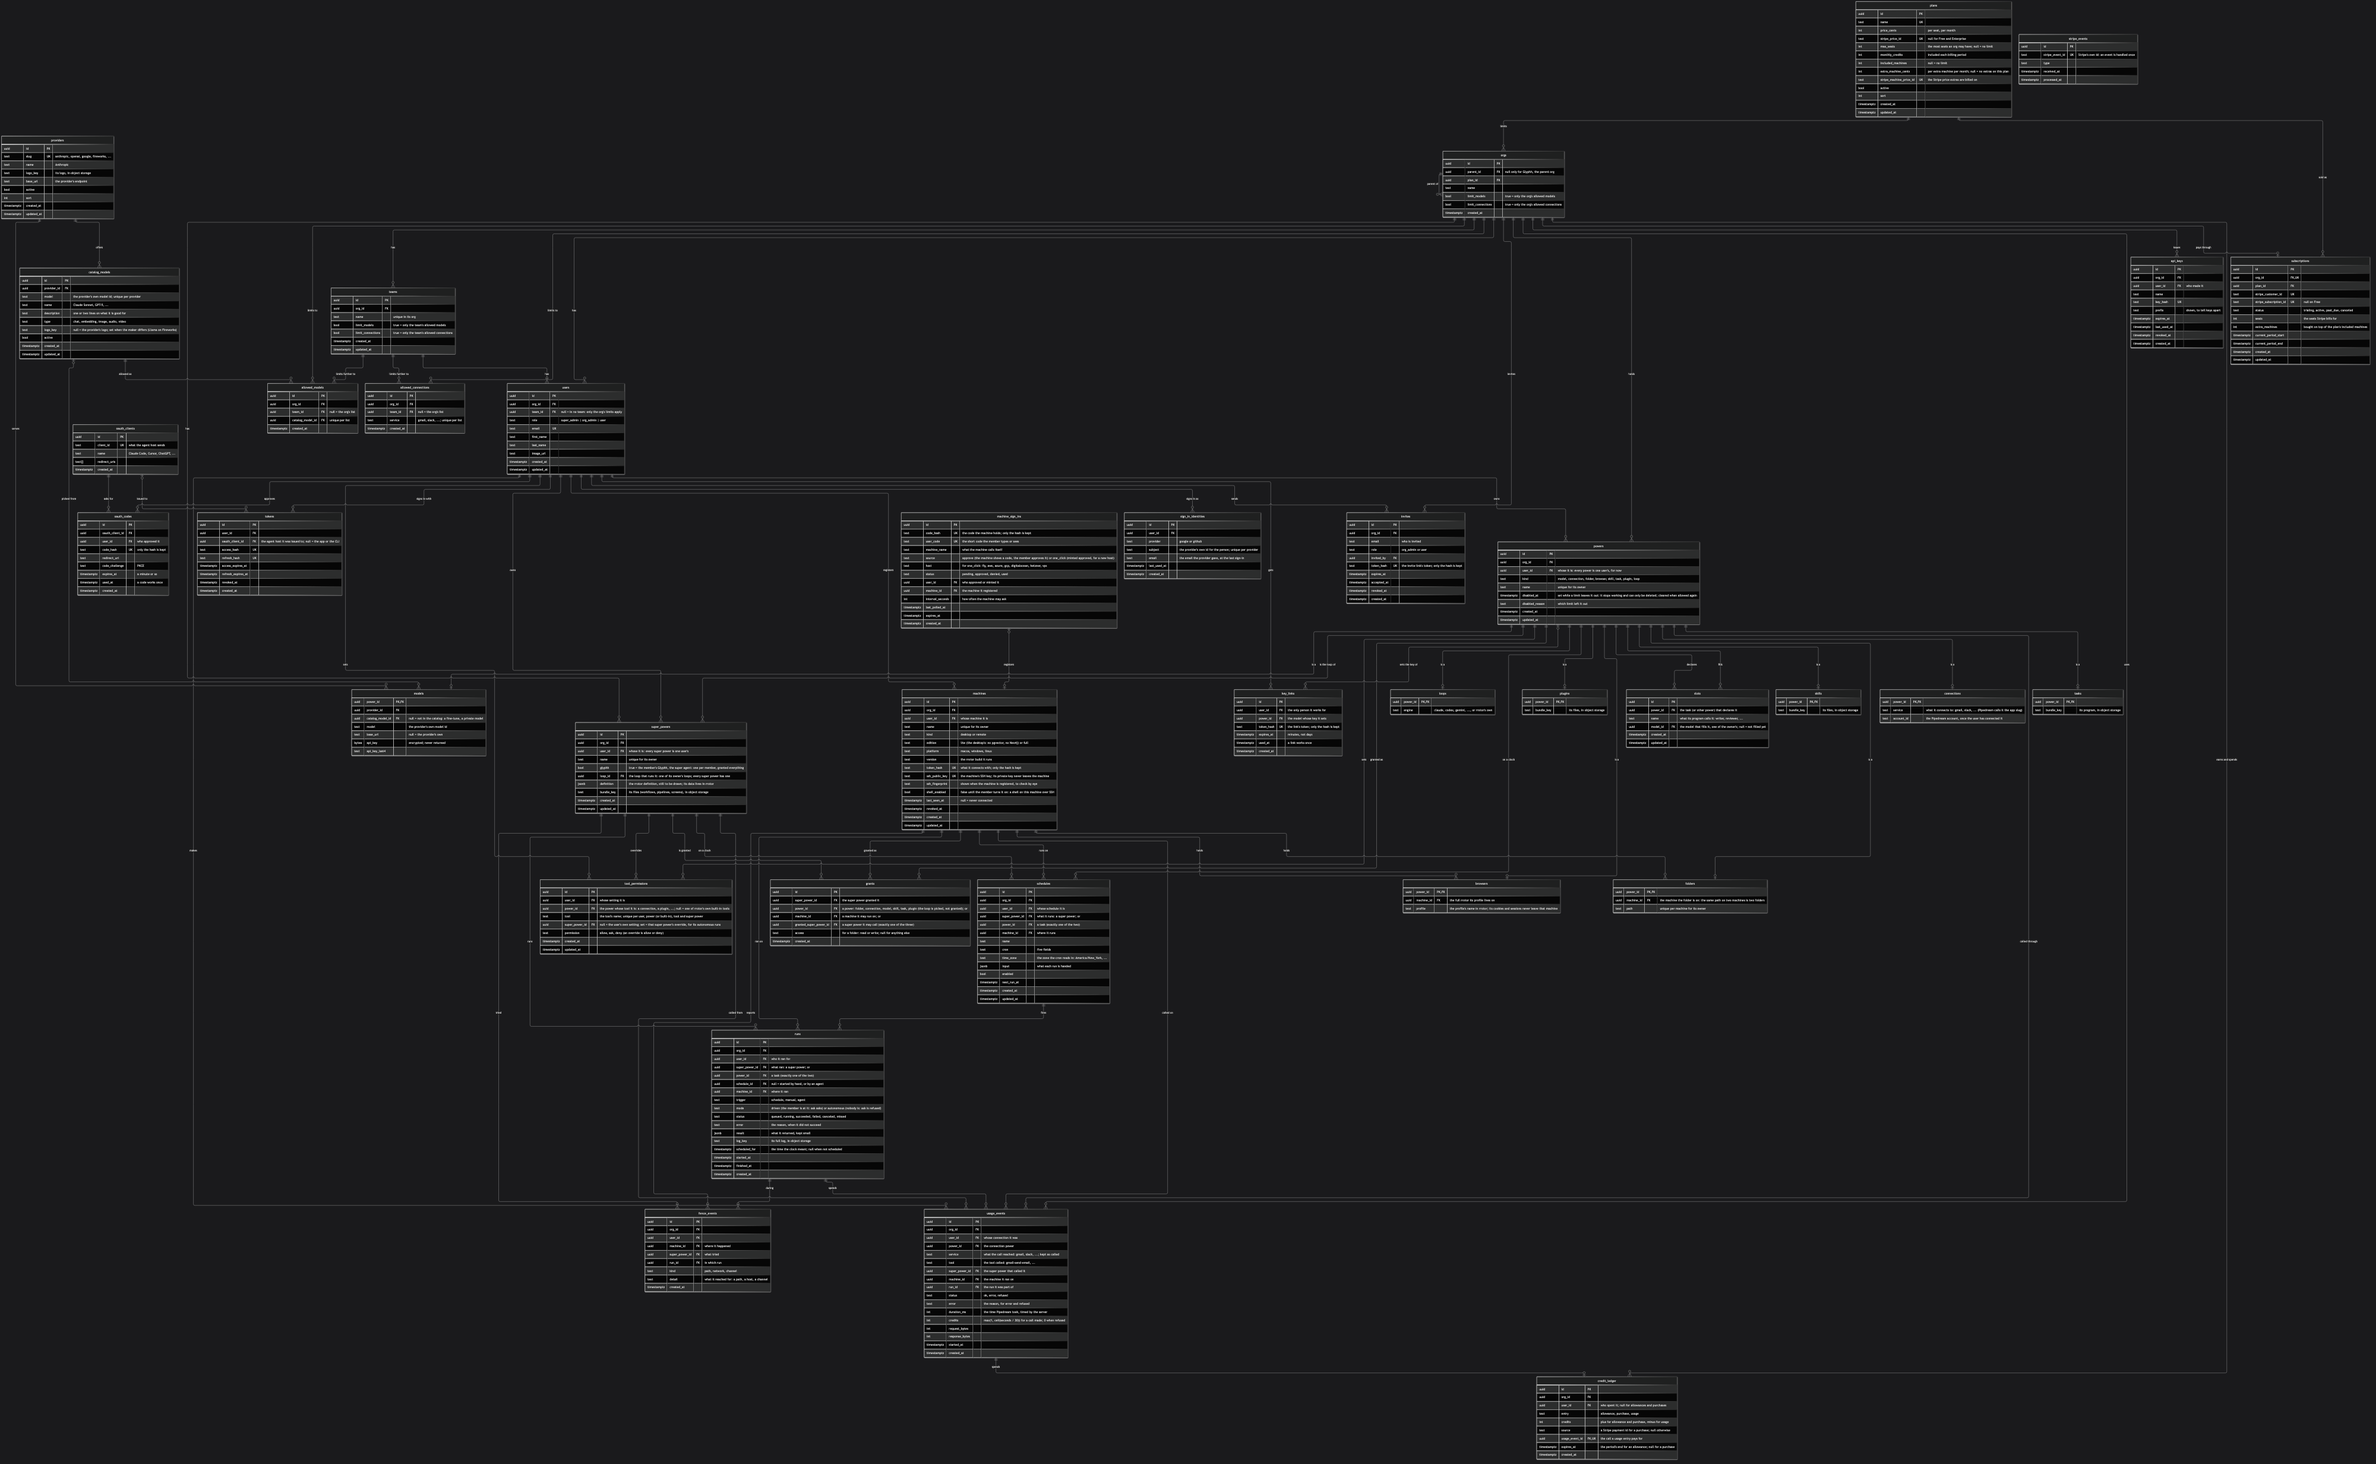
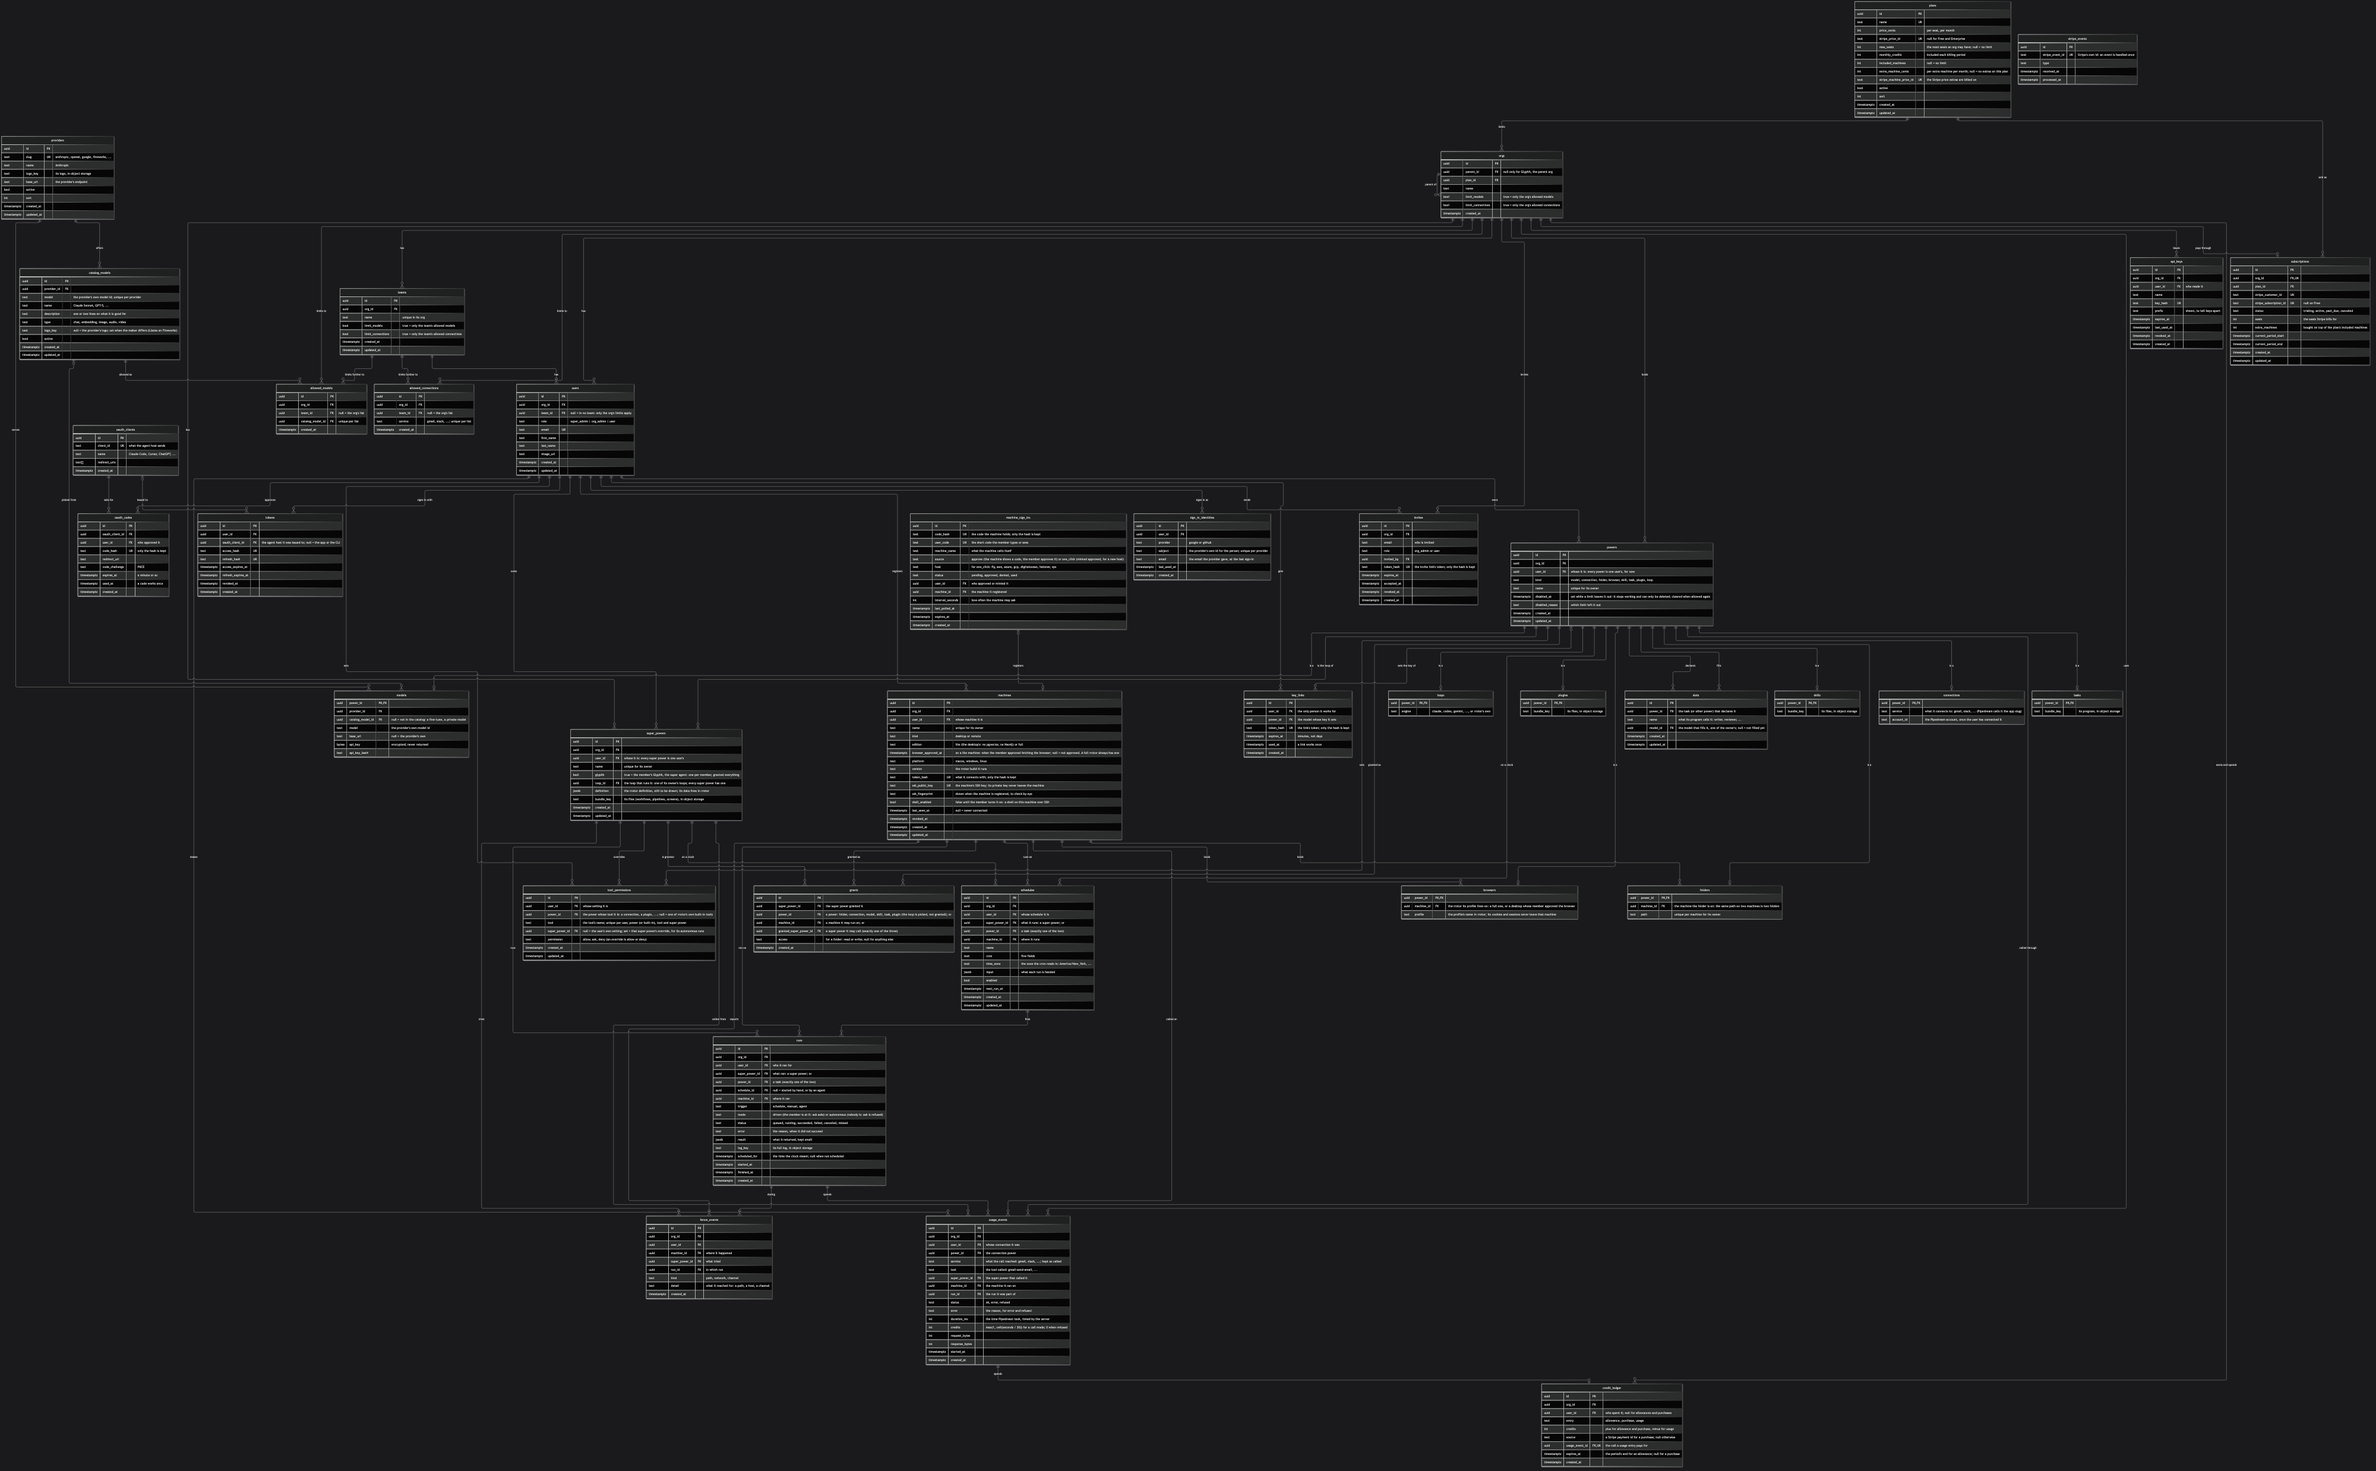
Desktop browsers for super powers: inside the desktop's rrotor, fetched only after the member approves an explanation

diff --git a/server/docs/data-model.md b/server/docs/data-model.md
@@ -209,7 +209,7 @@ erDiagram
 
     browsers {
         uuid power_id PK, FK
-        uuid machine_id FK "the full rrotor its profile lives on"
+        uuid machine_id FK "the rrotor its profile lives on: a full one, or a desktop whose member approved the browser"
         text profile "the profile's name in rrotor; its cookies and sessions never leave that machine"
     }
 
@@ -385,6 +385,7 @@ erDiagram
         text name "unique for its owner"
         text kind "desktop or remote"
         text edition "lite (the desktop's: no pgvector, no Neo4j) or full"
+        timestamptz browser_approved_at "on a lite machine: when the member approved fetching the browser; null = not approved. A full rrotor always has one"
         text platform "macos, windows, linux"
         text version "the rrotor build it runs"
         text token_hash UK "what it connects with; only the hash is kept"
@@ -575,7 +576,7 @@ Every power is a row in `powers` (who owns it, its kind and name), and one row i
 - **A model** is a provider, the provider's model id and the API key (an optional base URL for providers that need one). rrotor calls the provider directly with that key: Glyphh never sits in the call, never sees its rates or prices, and never counts its tokens. What a model costs is between the person and their provider. A customer who wants limits or access rules puts their own AI gateway in front, through the base URL.
 - **A connection** is a user's own account at Pipedream: the service it connects to (Gmail, Slack, ...) and the account id. Pipedream calls a service an app; Glyphh says service, because an app is something else here. Glyphh stores no sign-in for it: Pipedream holds the account and its tokens, under the Glyphh user's id as Pipedream's external user id. Linking one: the server asks Pipedream for a connect token for that user, and Pipedream's own page does the sign-in. Using one: the loop reaches Pipedream's MCP server (`remote.mcp.pipedream.net/v3`) with the Pipedream project, environment, service (`x-pd-app-slug`) and the user's id as headers, and a short-lived Pipedream access token the server mints for the run (Glyphh's Pipedream client credentials never leave the server). Only Glyphh's connections are used: a super power's loop gets exactly its connections, nothing of the loop's own.
 - **A folder** is a path on one machine (`machine_id`): the same path on two machines is two folders, and a folder grant says read or write.
-- **A browser** is a browser profile on one full rrotor: its cookies and signed-in sessions live there and never leave that machine or reach the server. It is granted like a folder, so one super power's signed-in sites are never another's.
+- **A browser** is a browser profile on one rrotor (a full one, or a desktop whose member approved the browser): its cookies and signed-in sessions live there and never leave that machine or reach the server. It is granted like a folder, so one super power's signed-in sites are never another's.
 - **Skills, tasks and plugins** are bundles of files in object storage (`bundle_key`); whether each save keeps a version is still open.
 - **A secret** (a key, a sign-in) is encrypted at rest, never returned after it is saved, and handed only to the member's own runtime when a super power runs.
 - **The catalog** is what the app and the platform show when someone picks a model, and where every model's logo comes from: `providers` (each with its name and logo) and `catalog_models` (each provider's models, with a name, a description and a type). Every entry shows the provider's logo, the provider, the model's name, its description and its type. It is Glyphh's reference data, the same for every org: anyone signed in reads it, only super admins change it. It starts from the old server's list (about 3,900 models across about 125 providers) and its 143 provider logos, kept in object storage. It holds no prices, rates or limits.
@@ -621,7 +622,7 @@ Signing in always happens from a machine, and signing in is how a machine is reg
 
 **One-click hosting** registers a new machine the same way, without the approve step: the member asks the app or the platform for a new host, the server mints a sign-in already approved (`source` one_click, the host named), and the host's button carries its code. On first boot the machine trades it for its own token and SSH key; the code works once and for minutes, then it is `used`. No code is minted when the plan has no machine left, so nothing is half set up.
 
-A machine is a registered rrotor, a small Linux VM: a member's desktop (the app runs it) or a remote server they run, on any host. It connects out to the server with its own token (only the hash is kept) and reports what it is: a desktop or a remote server, its platform, and the rrotor version it runs (builds update themselves, so the server sees which version each machine is on). `last_seen_at` says when it was last online. Its edition says what it can host: a desktop's rrotor is lite (no pgvector, no Neo4j), a remote one is full, so a super power that needs vectors or a graph is never placed or scheduled on a lite machine. A folder is always on one machine (`folders.machine_id`): the same path on two machines is two folders, and a folder grant says whether the super power may only read it or also write it (`grants.access`). At sign-in a machine also makes its own SSH key pair: the private key stays on the machine, the public key is registered here with its fingerprint (see the architecture, Machine to machine). A plan includes a number of machines (`included_machines`). An org can add more for a monthly price per extra machine, set per plan (`extra_machine_cents`, billed on the plan's Stripe price for extras); the subscription carries how many it bought (`extra_machines`). An org can register up to its included plus its extra machines; revoking one stops it connecting and frees its place.
+A machine is a registered rrotor, a small Linux VM: a member's desktop (the app runs it) or a remote server they run, on any host. It connects out to the server with its own token (only the hash is kept) and reports what it is: a desktop or a remote server, its platform, and the rrotor version it runs (builds update themselves, so the server sees which version each machine is on). `last_seen_at` says when it was last online. Its edition says what it can host: a desktop's rrotor is lite (no pgvector, no Neo4j), a remote one is full, so a super power that needs vectors or a graph is never placed or scheduled on a lite machine. A lite machine gets a browser only once its member approves it (`browser_approved_at`), and a browser power is never placed on a desktop before that. A folder is always on one machine (`folders.machine_id`): the same path on two machines is two folders, and a folder grant says whether the super power may only read it or also write it (`grants.access`). At sign-in a machine also makes its own SSH key pair: the private key stays on the machine, the public key is registered here with its fingerprint (see the architecture, Machine to machine). A plan includes a number of machines (`included_machines`). An org can add more for a monthly price per extra machine, set per plan (`extra_machine_cents`, billed on the plan's Stripe price for extras); the subscription carries how many it bought (`extra_machines`). An org can register up to its included plus its extra machines; revoking one stops it connecting and frees its place.
 
 **Which server process holds a machine's connection is not in this database:** it is live state that is only true right now, so it lives in Redis (see the architecture, Data). `last_seen_at` here is updated when a machine connects and disconnects, not on every heartbeat.
 

diff --git a/server/docs/architecture.md b/server/docs/architecture.md
@@ -21,7 +21,7 @@ flowchart TB
     end
 
     subgraph Yours["Your machines (your compute)"]
-        Desktop["Desktop app<br/>you drive it, unsandboxed;<br/>remote reaches it only through<br/>its rrotor VM (lite) = the fence"]
+        Desktop["Desktop app<br/>you drive it, unsandboxed;<br/>remote reaches it only through<br/>its rrotor VM (lite) = the fence;<br/>a browser for bots once approved"]
         Remote["rrotor VM (full) = the fence<br/>any host: CLIs, loop, grants only,<br/>Postgres + pgvector, Neo4j,<br/>Redis, cron, Next.js screens,<br/>virtual screen + Chromium (RPA)"]
     end
 
@@ -147,6 +147,8 @@ A full rrotor runs a virtual screen (a display with no monitor) and a real Chrom
 - **Watching:** the screen streams to the member's app or the web over WebRTC, whose video is encrypted end to end by design: the server only passes the call setup over the relay, and a TURN relay used when no direct path exists cannot decrypt it. If WebRTC cannot connect, screen frames go over the SSH channel instead. The server never sees the screen.
 - **Signing into a website:** the member takes control. The bot pauses, the member's taps and keystrokes go straight into the remote browser over the encrypted channel, they type the password and do the 2FA themselves, and hand control back. While they hold it no screenshot goes to the model, so a password or a code never reaches the model or a chat. The run's log records when control changed hands.
 - **Sessions stay on the machine:** each browser profile (a `browsers` power) lives on one rrotor and is granted like a folder, so one super power's signed-in sites are never another's. Cookies never leave that machine.
+- **On a desktop:** when the member drives Glyphh, it uses the app's own browser and the member's own sessions, because they are at the keyboard. A super power running on the desktop (unattended, a bot) never touches the app's browser: it gets its own Chromium and virtual screen inside the desktop's rrotor VM, fenced and watched like a remote rrotor's, and the member's own sessions are never shared with it.
+- **Fetched only with the member's approval:** the desktop's VM does not carry the browser until the first super power that needs one is placed on that desktop. Then the app asks first and explains: what it is (a separate browser inside the fence, for super powers only, which never sees the member's own sessions), what it costs (a few hundred MB on disk, roughly 300 to 500 MB of memory while a browser is open), and why (browser work runs on this machine and its own internet address, which some sites trust more than a cloud server). Declined, the super power cannot be placed on that desktop and is offered a remote rrotor instead; approved, the browser is fetched once and kept.
 - **Later:** a password manager (1Password) can fill sign-ins without the model seeing them. Passkeys are tied to the member's own device and cannot be used remotely; such sites need a password and 2FA through take-over.
 
 ### Machine to machine: SSH over the relay

diff --git a/server/docs/status.md b/server/docs/status.md
@@ -23,7 +23,7 @@ On the [data model](data-model.md), in the order they were drawn:
 - **People and machines:** `invites`, `machines` (with their edition, SSH key, fingerprint and shell switch), `machine_sign_ins`, `fence_events` (what rrotor reports when a run reaches past its fence), `api_keys`; folders are on a machine, and folder grants are read or write.
 - **Signing in and Stripe:** `sign_in_identities` (Google and GitHub by the provider's own id), `oauth_clients` and `oauth_codes` (the plugin's sign-in), `key_links` (the platform's one-time key links), `stripe_events` (each webhook handled once).
 
-On the [architecture](architecture.md): Redis for live state (which process holds each machine, heartbeats, messages between processes), rrotor as a Linux VM (the app you drive unsandboxed, remote control only through rrotor by grants), the platform's usage and billing pages, adding a model in the app, what rrotor carries (Postgres with pgvector, a Next.js server, the loop), and machine to machine over SSH through the relay.
+On the [architecture](architecture.md): desktop browsers for super powers, fetched only with the member's approval, Redis for live state (which process holds each machine, heartbeats, messages between processes), rrotor as a Linux VM (the app you drive unsandboxed, remote control only through rrotor by grants), the platform's usage and billing pages, adding a model in the app, what rrotor carries (Postgres with pgvector, a Next.js server, the loop), and machine to machine over SSH through the relay.
 
 ## Open
 
@@ -31,7 +31,6 @@ Decisions still to make. Where a proposal is written, it is a proposal, not a de
 
 - **Conversations:** not drawn. Proposal: the server keeps each conversation's record (title, super power, machine, run, status, times), rrotor keeps the messages, and the app and web open them over SSH through the relay.
 - **Where the org admin's pages live:** members, teams, and the allowed models and connections, in the app or on the platform.
-- **RPA on a desktop:** the full rrotor has the virtual screen and Chromium; whether the desktop's lite rrotor gets them too, or desktop RPA stays in the app's own browser.
 - **App settings** (workspaces, tabs, layout, appearance): not drawn; on hold.
 - **The rrotor definition:** what a super power's definition holds (its workflows, pipelines and screens), how one super power's data is kept apart from another's in rrotor's Postgres, and how its screens reach the app and the web from a remote machine.
 - **Power bundles:** whether saving a skill or task keeps each version, and how edits made in a machine's folder get back to the server.
